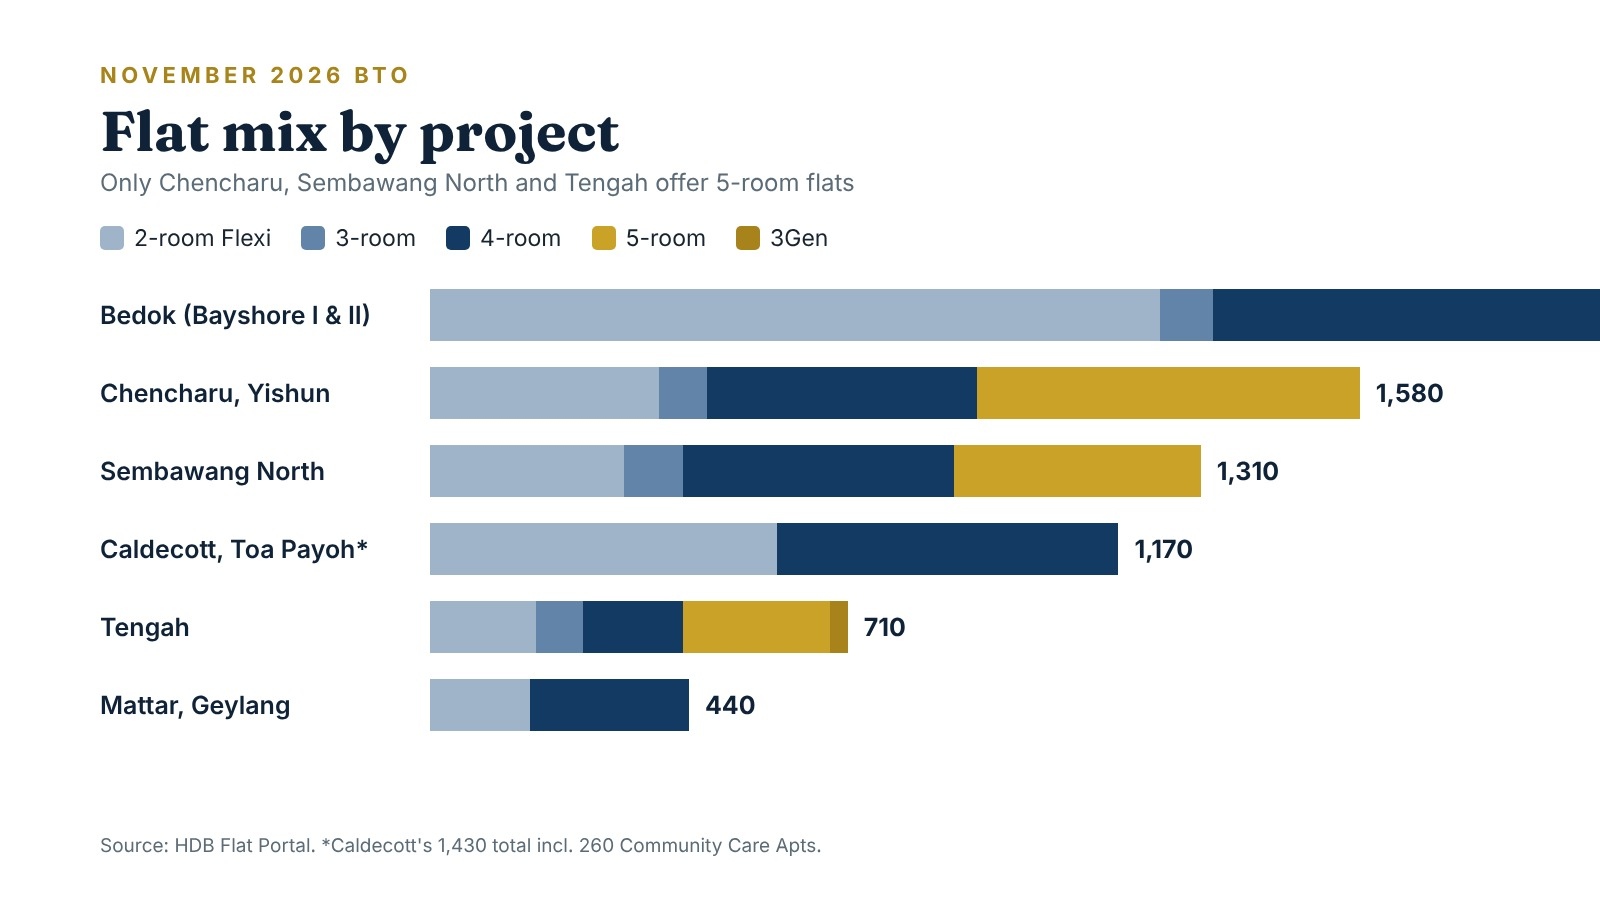
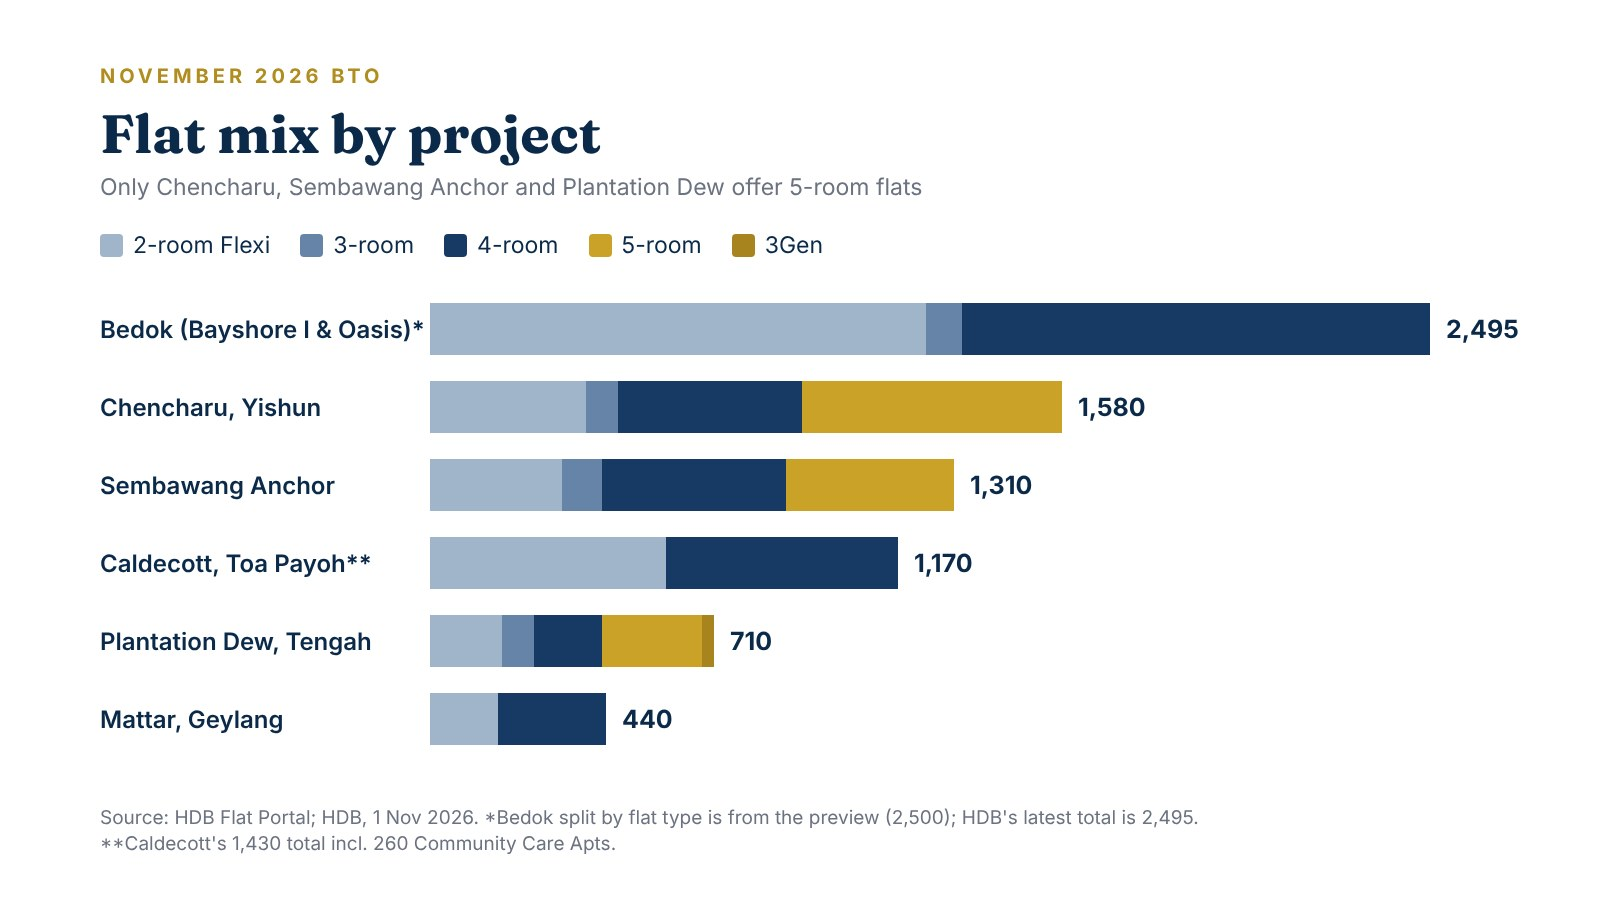
Nov 2026 BTO post: official project names and waiting times (HDB, 1 Nov 2026)
Sembawang Anchor, Bayshore Oasis (855 units) and Plantation Dew; ~7,960 flats;
shorter waiting times; White Flats; regenerated banner, hero, map and flat-mix images;
Updated 2 Nov 2026 date, dateModified, blog card date and sources.

Claude-Session: https://claude.ai/code/session_0178RRDakaHoiKbBzhsk9KKt

diff --git a/blog-post-november-2026-bto-launch.html b/blog-post-november-2026-bto-launch.html
@@ -3,24 +3,24 @@
 <head>
 <meta charset="UTF-8">
 <meta name="viewport" content="width=device-width, initial-scale=1.0">
-<title>Nov 2026 BTO Launch: 7 Projects, ~7,970 Flats | Serene Lee</title>
-<meta name="description" content="HDB&#x27;s last 2026 BTO launch: Bayshore, Caldecott, Mattar, Chencharu, Sembawang North, Tengah. Flat mix, prices, the $16,000 income ceiling, ballot tips.">
+<title>Nov 2026 BTO Launch: 7 Projects, ~7,960 Flats | Serene Lee</title>
+<meta name="description" content="HDB&#x27;s last 2026 BTO launch: Bayshore Oasis, Caldecott, Mattar, Chencharu, Sembawang Anchor, Plantation Dew (Tengah). Flat mix, prices, the $16,000 income ceiling, ballot tips.">
 <link rel="canonical" href="https://sereneleeproperty.com/blog-post-november-2026-bto-launch">
-<meta property="og:title" content="Nov 2026 BTO Launch: 7 Projects, ~7,970 Flats | Serene Lee">
-<meta property="og:description" content="HDB&#x27;s last 2026 BTO launch: Bayshore, Caldecott, Mattar, Chencharu, Sembawang North, Tengah. Flat mix, prices, the $16,000 income ceiling, ballot tips.">
+<meta property="og:title" content="Nov 2026 BTO Launch: 7 Projects, ~7,960 Flats | Serene Lee">
+<meta property="og:description" content="HDB&#x27;s last 2026 BTO launch: Bayshore Oasis, Caldecott, Mattar, Chencharu, Sembawang Anchor, Plantation Dew (Tengah). Flat mix, prices, the $16,000 income ceiling, ballot tips.">
 <meta property="og:image" content="https://sereneleeproperty.com/assets/bto-nov-2026-hero.jpg">
 <meta property="og:url" content="https://sereneleeproperty.com/blog-post-november-2026-bto-launch">
 <meta property="og:type" content="article">
 <meta name="twitter:card" content="summary_large_image">
-<meta name="twitter:title" content="Nov 2026 BTO Launch: 7 Projects, ~7,970 Flats | Serene Lee">
-<meta name="twitter:description" content="HDB&#x27;s last 2026 BTO launch: Bayshore, Caldecott, Mattar, Chencharu, Sembawang North, Tengah. Flat mix, prices, the $16,000 income ceiling, ballot tips.">
+<meta name="twitter:title" content="Nov 2026 BTO Launch: 7 Projects, ~7,960 Flats | Serene Lee">
+<meta name="twitter:description" content="HDB&#x27;s last 2026 BTO launch: Bayshore Oasis, Caldecott, Mattar, Chencharu, Sembawang Anchor, Plantation Dew (Tengah). Flat mix, prices, the $16,000 income ceiling, ballot tips.">
 <meta name="twitter:image" content="https://sereneleeproperty.com/assets/bto-nov-2026-hero.jpg">
 <script type="application/ld+json">
 {
   "@context": "https://schema.org",
   "@type": "BlogPosting",
-  "headline": "November 2026 BTO Launch: 7 Projects, ~7,970 Flats — What Buyers Need to Know",
-  "description": "HDB's last 2026 BTO launch: Bayshore, Caldecott, Mattar, Chencharu, Sembawang North, Tengah. Flat mix, prices, the $16,000 income ceiling, ballot tips.",
+  "headline": "November 2026 BTO Launch: 7 Projects, ~7,960 Flats — What Buyers Need to Know",
+  "description": "HDB's last 2026 BTO launch: Bayshore Oasis, Caldecott, Mattar, Chencharu, Sembawang Anchor, Plantation Dew (Tengah). Flat mix, prices, the $16,000 income ceiling, ballot tips.",
   "image": "https://sereneleeproperty.com/assets/bto-nov-2026-hero.jpg",
   "author": { "@type": "Person", "name": "Serene Lee", "url": "https://sereneleeproperty.com/about" },
   "publisher": {
@@ -29,7 +29,7 @@
     "logo": { "@type": "ImageObject", "url": "https://sereneleeproperty.com/assets/era-logo.png" }
   },
   "datePublished": "2026-10-19",
-  "dateModified": "2026-10-19",
+  "dateModified": "2026-11-02",
   "mainEntityOfPage": { "@type": "WebPage", "@id": "https://sereneleeproperty.com/blog-post-november-2026-bto-launch" }
 }
 </script>
@@ -54,7 +54,7 @@
 .post-hero-img{max-width:720px;margin:8px auto 0;}
 .post-hero-img img{width:100%;height:auto;border-radius:var(--radius);display:block;box-shadow:var(--shadow);}
 </style>
-<script type="application/ld+json" data-schema="breadcrumb">{"@context":"https://schema.org","@type":"BreadcrumbList","itemListElement":[{"@type":"ListItem","position":1,"name":"Home","item":"https://sereneleeproperty.com/"},{"@type":"ListItem","position":2,"name":"Blog","item":"https://sereneleeproperty.com/blog"},{"@type":"ListItem","position":3,"name":"Nov 2026 BTO Launch: 7 Projects, ~7,970 Flats","item":"https://sereneleeproperty.com/blog-post-november-2026-bto-launch"}]}</script>
+<script type="application/ld+json" data-schema="breadcrumb">{"@context":"https://schema.org","@type":"BreadcrumbList","itemListElement":[{"@type":"ListItem","position":1,"name":"Home","item":"https://sereneleeproperty.com/"},{"@type":"ListItem","position":2,"name":"Blog","item":"https://sereneleeproperty.com/blog"},{"@type":"ListItem","position":3,"name":"Nov 2026 BTO Launch: 7 Projects, ~7,960 Flats","item":"https://sereneleeproperty.com/blog-post-november-2026-bto-launch"}]}</script>
 </head>
 <body>
 
@@ -101,28 +101,29 @@
 <div class="page-hero container">
   <a href="/blog" class="post-back">&larr; Back to Blog</a>
   <span class="eyebrow">HDB &middot; BTO Launch Guide</span>
-  <h1 style="font-size:2rem;max-width:760px;">November 2026 BTO Launch: 7 Projects, ~7,970 Flats &mdash; What Buyers Need to Know</h1>
-  <p class="post-meta">Published 19 Oct 2026 &middot; 6 min read</p>
+  <h1 style="font-size:2rem;max-width:760px;">November 2026 BTO Launch: 7 Projects, ~7,960 Flats &mdash; What Buyers Need to Know</h1>
+  <p class="post-meta">Updated 2 Nov 2026 &middot; 6 min read</p>
 </div>
 
 <div class="container">
   <div class="post-hero-img">
-    <img src="assets/bto-nov-2026-banner.jpg" alt="November 2026 HDB BTO launch: about 7,970 new flats, 7 projects in 6 towns, and a new $16,000 family income ceiling." width="1440" height="405">
+    <img src="assets/bto-nov-2026-banner.jpg" alt="November 2026 HDB BTO launch: about 7,960 new flats, 7 projects in 6 towns, and a new $16,000 family income ceiling." width="1440" height="405">
   </div>
 </div>
 
 <section style="padding-top:28px;">
   <div class="container">
     <div class="post-body">
-      <p class="lede">HDB&rsquo;s final BTO exercise of 2026 lands in November with about 7,970 flats across 7 projects in 6 towns. It is also the first launch open to households earning up to $16,000 a month.</p>
+      <p class="lede">HDB&rsquo;s final BTO exercise of 2026 lands in November with about 7,960 flats across 7 projects in 6 towns. It is also the first launch open to households earning up to $16,000 a month.</p>
 
       <h2>At a glance</h2>
       <ul>
         <li><strong>When:</strong> November 2026 (moved from October). Exact dates, prices and classifications are released on launch day.</li>
-        <li><strong>How many:</strong> ~7,970 flats in Bedok, Geylang, Sembawang, Tengah, Toa Payoh and Yishun.</li>
+        <li><strong>How many:</strong> ~7,960 flats in Bedok, Geylang, Sembawang, Tengah, Toa Payoh and Yishun.</li>
         <li><strong>Where:</strong> more than half the flats sit in mature estates &mdash; a rare chance to buy subsidised in towns where resale carries a premium.</li>
+        <li><strong>Shorter waiting times (official, HDB 1 Nov 2026):</strong> Sembawang Anchor 2 yrs 10 mths (completion around 2029); Bayshore Oasis and Plantation Dew 3 yrs 2 mths each.</li>
         <li><strong>Year total:</strong> rounds off ~19,600 BTO flats for 2026 across the February, June and November exercises.</li>
-        <li><strong>Hot picks:</strong> Caldecott (Toa Payoh) and Bayshore (Bedok) will likely draw the most applicants; Chencharu, Sembawang North and Tengah offer better odds and bigger flats.</li>
+        <li><strong>Hot picks:</strong> Caldecott (Toa Payoh) and Bayshore (Bedok) will likely draw the most applicants; Chencharu, Sembawang Anchor and Plantation Dew (Tengah) offer better odds and bigger flats.</li>
       </ul>
 
       <h2>What changed since the preview</h2>
@@ -139,7 +140,7 @@
 
       <h2>The 7 projects at a glance</h2>
       <figure class="post-figure">
-        <img src="assets/bto-nov-2026-map.jpg" alt="Schematic map of Singapore showing the seven November 2026 BTO projects: Tengah, Sembawang North and Chencharu (Standard), Caldecott in Toa Payoh (Prime), Mattar in Geylang and Bayshore I and II in Bedok (Plus)." class="enlargeable-img" loading="lazy" width="1600">
+        <img src="assets/bto-nov-2026-map.jpg" alt="Schematic map of Singapore showing the seven November 2026 BTO projects: Plantation Dew in Tengah, Sembawang Anchor and Chencharu (Standard), Caldecott in Toa Payoh (Prime), Mattar in Geylang and Bayshore I and Bayshore Oasis in Bedok (Plus)." class="enlargeable-img" loading="lazy" width="1600">
         <figcaption>Tap or click to enlarge</figcaption>
       </figure>
       <div class="post-table-wrap">
@@ -148,26 +149,27 @@
             <tr><th>Project</th><th>Units</th><th>Flat mix</th><th>Expected tier*</th><th>Nearest MRT</th><th>Est. 4-room from**</th></tr>
           </thead>
           <tbody>
-            <tr><td>Bayshore I &amp; II, Bedok (2 projects)</td><td>2,500</td><td>1,240 2RF &middot; 90 3R &middot; 1,170 4R</td><td>Plus</td><td>Bayshore (TEL)</td><td>~$500k&ndash;$520k</td></tr>
+            <tr><td>Bayshore I &amp; Bayshore Oasis, Bedok (2 projects)</td><td>2,495</td><td>1,240 2RF &middot; 90 3R &middot; 1,170 4R</td><td>Plus</td><td>Bayshore (TEL)</td><td>~$500k&ndash;$520k</td></tr>
             <tr><td>Caldecott, Toa Payoh</td><td>1,430 (incl. 260 CCA)</td><td>260 CCA &middot; 590 2RF &middot; 580 4R</td><td>Prime</td><td>Caldecott (CCL/TEL)</td><td>~$550k</td></tr>
             <tr><td>Mattar, Geylang</td><td>440</td><td>170 2RF &middot; 270 4R</td><td>Plus</td><td>Mattar (DTL)</td><td>~$500k&ndash;$550k</td></tr>
             <tr><td>Chencharu, Yishun</td><td>1,580</td><td>390 2RF &middot; 80 3R &middot; 460 4R &middot; 650 5R</td><td>Standard</td><td>Khatib (NSL)</td><td>TBC</td></tr>
-            <tr><td>Sembawang North</td><td>1,310</td><td>330 2RF &middot; 100 3R &middot; 460 4R &middot; 420 5R</td><td>Standard</td><td>&mdash;</td><td>~$330k</td></tr>
-            <tr><td>Tengah (Garden Ave)</td><td>710</td><td>180 2RF &middot; 80 3R &middot; 170 4R &middot; 250 5R &middot; 30 3Gen</td><td>Standard</td><td>&mdash;</td><td>~$360k</td></tr>
+            <tr><td>Sembawang Anchor (Sembawang North)</td><td>1,310</td><td>330 2RF &middot; 100 3R &middot; 460 4R &middot; 420 5R</td><td>Standard</td><td>&mdash;</td><td>~$330k</td></tr>
+            <tr><td>Plantation Dew (Tengah)</td><td>710</td><td>180 2RF &middot; 80 3R &middot; 170 4R &middot; 250 5R &middot; 30 3Gen</td><td>Standard</td><td>&mdash;</td><td>~$360k</td></tr>
           </tbody>
         </table>
       </div>
-      <p class="table-note">2RF = 2-room Flexi &middot; CCA = Community Care Apartments (assisted living for seniors). *Industry expectation only &mdash; HDB confirms classification at launch. Plus and Prime flats carry a 10-year MOP and a subsidy recovery when you sell. **Analyst estimates before grants; official prices are published on launch day. Flat types and unit counts are per the HDB Flat Portal project pages. Bedok combines Bayshore I (1,640) and Bayshore II (860).</p>
+      <p class="table-note">2RF = 2-room Flexi &middot; CCA = Community Care Apartments (assisted living for seniors). *Industry expectation only &mdash; HDB confirms classification at launch. Plus and Prime flats carry a 10-year MOP and a subsidy recovery when you sell. **Analyst estimates before grants; official prices are published on launch day. Flat types and unit counts are per the HDB Flat Portal project pages. Bedok combines Bayshore I (1,640) and Bayshore Oasis (855, 2-room Flexi and 4-room only, per HDB 1 Nov 2026). Bedok flat-type split is from the preview; HDB confirms per-type counts at launch.</p>
 
       <figure class="post-figure">
-        <img src="assets/bto-nov-2026-flat-mix.jpg" alt="Stacked bar chart of flat mix by project. Bedok (Bayshore I and II) 2,500, Chencharu 1,580, Sembawang North 1,310, Caldecott 1,170 sale flats, Tengah 710, Mattar 440. Only Chencharu, Sembawang North and Tengah offer 5-room flats." class="enlargeable-img" loading="lazy" width="1600">
+        <img src="assets/bto-nov-2026-flat-mix.jpg" alt="Stacked bar chart of flat mix by project. Bedok (Bayshore I and Bayshore Oasis) 2,495, Chencharu 1,580, Sembawang Anchor 1,310, Caldecott 1,170 sale flats, Plantation Dew (Tengah) 710, Mattar 440. Only Chencharu, Sembawang Anchor and Plantation Dew offer 5-room flats." class="enlargeable-img" loading="lazy" width="1600">
         <figcaption>Tap or click to enlarge</figcaption>
       </figure>
 
       <h2>Project quick takes</h2>
-      <h3>Bayshore I &amp; II (Bedok) &mdash; 2,500 flats, the biggest share</h3>
+      <h3>Bayshore I &amp; Bayshore Oasis (Bedok) &mdash; 2,495 flats, the biggest share</h3>
       <ul>
         <li>Beside Bayshore MRT on the Thomson-East Coast Line, a short walk to East Coast Park.</li>
+        <li><strong>Bayshore Oasis (official):</strong> 855 flats (2-room Flexi and 4-room) in 4 blocks, with a shorter waiting time of 3 years 2 months.</li>
         <li>Over half the supply is 2-room Flexi &mdash; strong for singles and seniors.</li>
         <li>Value check: Vela Bay, the area&rsquo;s first condo, sold 72% of units on launch weekend at an average of ~$2,886 psf.</li>
         <li>Compare with resale prices nearby in the <a href="/bedok">Bedok town guide</a>.</li>
@@ -192,14 +194,18 @@
         <li>Fifth project in the Chencharu precinct near Khatib MRT; 2 preschools planned on-site.</li>
         <li>Compare with resale prices nearby, including blocks near Khatib MRT, in the <a href="/yishun">Yishun town guide</a>.</li>
       </ul>
-      <h3>Sembawang North &mdash; space at entry-level prices</h3>
+      <h3>Sembawang Anchor (Sembawang North) &mdash; space at entry-level prices</h3>
       <ul>
+        <li><strong>Shorter waiting time (official):</strong> 2 years 10 months, completion around 2029. Between Admiralty Lane and Sembawang Drive, with a preschool, supermarket and shops on-site.</li>
         <li>More than two-thirds of the 1,310 flats are 4-room or 5-room.</li>
         <li>Sembawang already saw 3,950 flats launched in February and June &mdash; demand may be softer, which helps your odds.</li>
         <li>Compare with resale prices nearby in the <a href="/sembawang">Sembawang town guide</a>.</li>
       </ul>
-      <h3>Tengah (Garden Avenue) &mdash; first Tengah launch in ~3 years</h3>
+      <h3>Plantation Dew (Tengah) &mdash; first Tengah launch in ~3 years</h3>
       <ul>
+        <li><strong>Shorter waiting time (official):</strong> 3 years 2 months.</li>
+        <li><strong>White Flats:</strong> open-concept units with no internal partition walls &mdash; the first BTO to offer them in 5-room flats.</li>
+        <li>Walking distance to upcoming Jurong Region Line stations (opening in stages from 2028 to 2029).</li>
         <li>Plantation district; every flat type on offer, including the launch&rsquo;s only 30 3Gen flats.</li>
         <li>4-room estimated from ~$360k &mdash; one of the cheapest entry points this round.</li>
       </ul>
@@ -211,8 +217,8 @@
           <tbody>
             <tr><td>Single, 35+, earning &le;$8,000</td><td>2-room Flexi at Bayshore, Caldecott or Chencharu</td><td>City-fringe picks mean a 10-year MOP</td></tr>
             <tr><td>Young couple wanting city-fringe</td><td>Caldecott, Mattar, Bayshore</td><td>Higher price, tighter odds, 10-year MOP</td></tr>
-            <tr><td>Growing family needing space</td><td>Chencharu, Sembawang North, Tengah</td><td>Further from town; Standard = 5-year MOP</td></tr>
-            <tr><td>Multi-generation household</td><td>Tengah (3Gen)</td><td>Only 30 units</td></tr>
+            <tr><td>Growing family needing space</td><td>Chencharu, Sembawang Anchor, Plantation Dew (Tengah)</td><td>Further from town; Standard = 5-year MOP</td></tr>
+            <tr><td>Multi-generation household</td><td>Plantation Dew, Tengah (3Gen)</td><td>Only 30 units</td></tr>
             <tr><td>Senior wanting assisted living</td><td>Caldecott (CCA)</td><td>Limited supply; eligibility rules apply</td></tr>
           </tbody>
         </table>
@@ -243,7 +249,7 @@
       </ul>
 
       <p class="post-ai-note" style="font-size:.82rem;color:var(--muted);font-style:italic;margin-top:32px;padding:12px 16px;border-left:3px solid var(--gold);background:var(--cream);border-radius:6px;">This article was prepared with AI assistance and reviewed by Serene Lee. Figures are based on HDB/MND announcements and industry estimates; please verify with the <a href="https://homes.hdb.gov.sg/" target="_blank" rel="noopener">HDB Flat Portal</a> before making any decision.</p>
-      <p class="post-sources">Information as of 19 Oct 2026. Sources: <a href="https://www.propertyguru.com.sg/property-guides/november-2026-bto-launch-preview-pjx-98679" target="_blank" rel="noopener">PropertyGuru</a> &middot; <a href="https://uchify.com/hdb-bto-november-2026-launch/" target="_blank" rel="noopener">Uchify</a> &middot; <a href="https://www.edgeprop.sg/property-news/hottest-and-coolest-picks-june-and-october-bto-launches" target="_blank" rel="noopener">EdgeProp</a> &middot; <a href="https://ohmyhome.com/en-sg/blog/the-complete-guide-to-the-october-2026-bto-launch-sites-what-buyers-should-know/" target="_blank" rel="noopener">Ohmyhome</a> &middot; <a href="https://www.era.com.sg/blogs/october-2026-bto-launch-preview" target="_blank" rel="noopener">ERA</a> &middot; <a href="https://sg.properties/articles/next-bto-launch-2027" target="_blank" rel="noopener">sg.properties</a> &middot; <a href="https://www.homeswift.ai/articles/bto-hdb/november-2026-bto-launch-guide" target="_blank" rel="noopener">Homeswift</a> &middot; <a href="https://www.recordbto.com/bto-sales-launch/nov-2026-bto" target="_blank" rel="noopener">RecordBTO</a> &middot; <a href="https://homes.hdb.gov.sg/" target="_blank" rel="noopener">HDB Flat Portal</a></p>
+      <p class="post-sources">Information as of 2 Nov 2026. Sources: <a href="https://www.hdb.gov.sg/hdb-pulse/news/2026/1310-shorter-waiting-time-flats-to-be-offered-in-november-2026-bto-exercise" target="_blank" rel="noopener">HDB (1 Nov 2026)</a> &middot; <a href="https://sg.news.yahoo.com/1-310-bto-flats-sembawang-020000312.html" target="_blank" rel="noopener">The Straits Times</a> &middot; <a href="https://www.asiaone.com/singapore/hdb-sembawang-shorter-waiting-times-november-bto-sales-exercise" target="_blank" rel="noopener">AsiaOne</a> &middot; <a href="https://goodyfeed.com/1310-sembawang-bto-flats-with-a-wait-of-two-years-10-months-to-launch-in-november/" target="_blank" rel="noopener">Goody Feed</a> &middot; <a href="https://www.propertyguru.com.sg/property-guides/november-2026-bto-launch-preview-pjx-98679" target="_blank" rel="noopener">PropertyGuru</a> &middot; <a href="https://uchify.com/hdb-bto-november-2026-launch/" target="_blank" rel="noopener">Uchify</a> &middot; <a href="https://www.edgeprop.sg/property-news/hottest-and-coolest-picks-june-and-october-bto-launches" target="_blank" rel="noopener">EdgeProp</a> &middot; <a href="https://ohmyhome.com/en-sg/blog/the-complete-guide-to-the-october-2026-bto-launch-sites-what-buyers-should-know/" target="_blank" rel="noopener">Ohmyhome</a> &middot; <a href="https://www.era.com.sg/blogs/october-2026-bto-launch-preview" target="_blank" rel="noopener">ERA</a> &middot; <a href="https://sg.properties/articles/next-bto-launch-2027" target="_blank" rel="noopener">sg.properties</a> &middot; <a href="https://www.homeswift.ai/articles/bto-hdb/november-2026-bto-launch-guide" target="_blank" rel="noopener">Homeswift</a> &middot; <a href="https://www.recordbto.com/bto-sales-launch/nov-2026-bto" target="_blank" rel="noopener">RecordBTO</a> &middot; <a href="https://homes.hdb.gov.sg/" target="_blank" rel="noopener">HDB Flat Portal</a></p>
     </div>
 
     <div class="post-related">
@@ -288,7 +294,7 @@
       <p><strong>Serene Lee</strong> &middot; CEA Registration No. R027578Z</p>
       <p><a href="/privacy" class="footer-subscribe">Privacy Policy</a> &middot; <a href="/useful-numbers" class="footer-subscribe">Useful Phone Numbers</a></p>
       <p><a href="/subscribers" class="footer-subscribe">Subscribe to my blog &amp; newsletter &rarr;</a></p>
-      <p>Unit counts, flat classifications and prices in this article are based on HDB/MND preview announcements and industry estimates as of 19 Oct 2026, and are indicative until HDB&rsquo;s official launch. Always verify on the HDB Flat Portal. This website is for general information only and does not constitute financial, mortgage, or legal advice.</p>
+      <p>Unit counts, flat classifications and prices in this article are based on HDB/MND announcements (latest 1 Nov 2026) and industry estimates as of 2 Nov 2026, and are indicative until HDB&rsquo;s official launch. Always verify on the HDB Flat Portal. This website is for general information only and does not constitute financial, mortgage, or legal advice.</p>
       <p>&copy; <span id="year"></span> Serene Lee. All rights reserved.</p>
     </div>
   </div>

diff --git a/blog.html b/blog.html
@@ -113,13 +113,13 @@
     </div>
     <div class="own-post-card">
       <div class="blog-row-thumb">
-        <img src="assets/bto-nov-2026-hero.jpg" alt="November 2026 BTO launch: about 7,970 flats across 7 projects">
+        <img src="assets/bto-nov-2026-hero.jpg" alt="November 2026 BTO launch: about 7,960 flats across 7 projects">
       </div>
       <div>
         <span class="blog-tag blog-tag-own">BTO Guide</span>
-        <span style="font-size:.75rem;color:var(--muted);margin-left:8px;">19 Oct 2026 &middot; 6 min read</span>
-        <div class="blog-title" style="font-size:1.2rem;">November 2026 BTO Launch: 7 Projects, ~7,970 Flats</div>
-        <div class="blog-excerpt" style="max-width:700px;">Bayshore, Caldecott, Mattar, Chencharu, Sembawang North and Tengah: flat mix, expected tiers, estimated prices, the new $16,000 income ceiling and my ballot tips.</div>
+        <span style="font-size:.75rem;color:var(--muted);margin-left:8px;">2 Nov 2026 &middot; 6 min read</span>
+        <div class="blog-title" style="font-size:1.2rem;">November 2026 BTO Launch: 7 Projects, ~7,960 Flats</div>
+        <div class="blog-excerpt" style="max-width:700px;">Bayshore Oasis, Caldecott, Mattar, Chencharu, Sembawang Anchor and Plantation Dew (Tengah): flat mix, expected tiers, estimated prices, the new $16,000 income ceiling and my ballot tips.</div>
         <a href="/blog-post-november-2026-bto-launch" style="font-size:.85rem;font-weight:700;color:var(--navy-900);">Read the full guide &rarr;</a>
       </div>
     </div>

diff --git a/index.html b/index.html
@@ -310,10 +310,10 @@
     <div class="card-grid">
       <a href="/blog-post-november-2026-bto-launch" class="launch-card">
         <div class="launch-thumb">
-          <img src="assets/bto-nov-2026-hero.jpg" alt="November 2026 BTO launch: about 7,970 flats across 7 projects">
+          <img src="assets/bto-nov-2026-hero.jpg" alt="November 2026 BTO launch: about 7,960 flats across 7 projects">
         </div>
         <div class="launch-body">
-          <div class="launch-name">November 2026 BTO Launch: 7 Projects, ~7,970 Flats</div>
+          <div class="launch-name">November 2026 BTO Launch: 7 Projects, ~7,960 Flats</div>
           <div class="launch-meta">HDB BTO Guide &middot; 6 min read</div>
           <span style="font-size:.85rem;font-weight:700;color:var(--navy-900);margin-top:auto;">Read the Guide &rarr;</span>
         </div>
